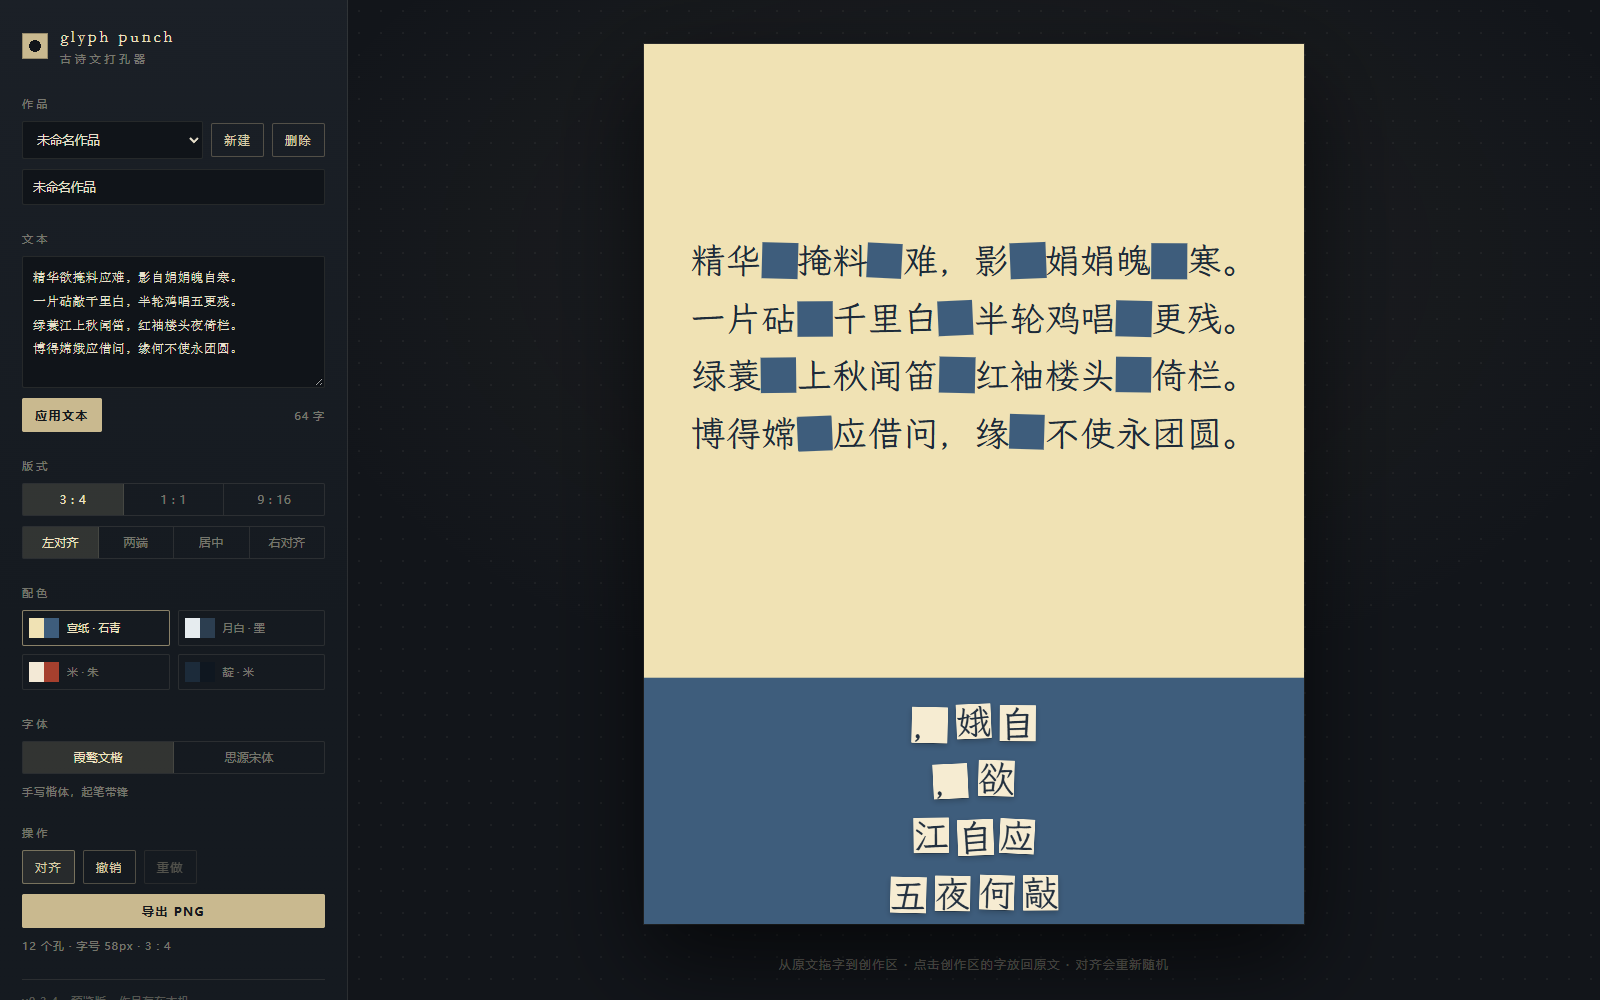
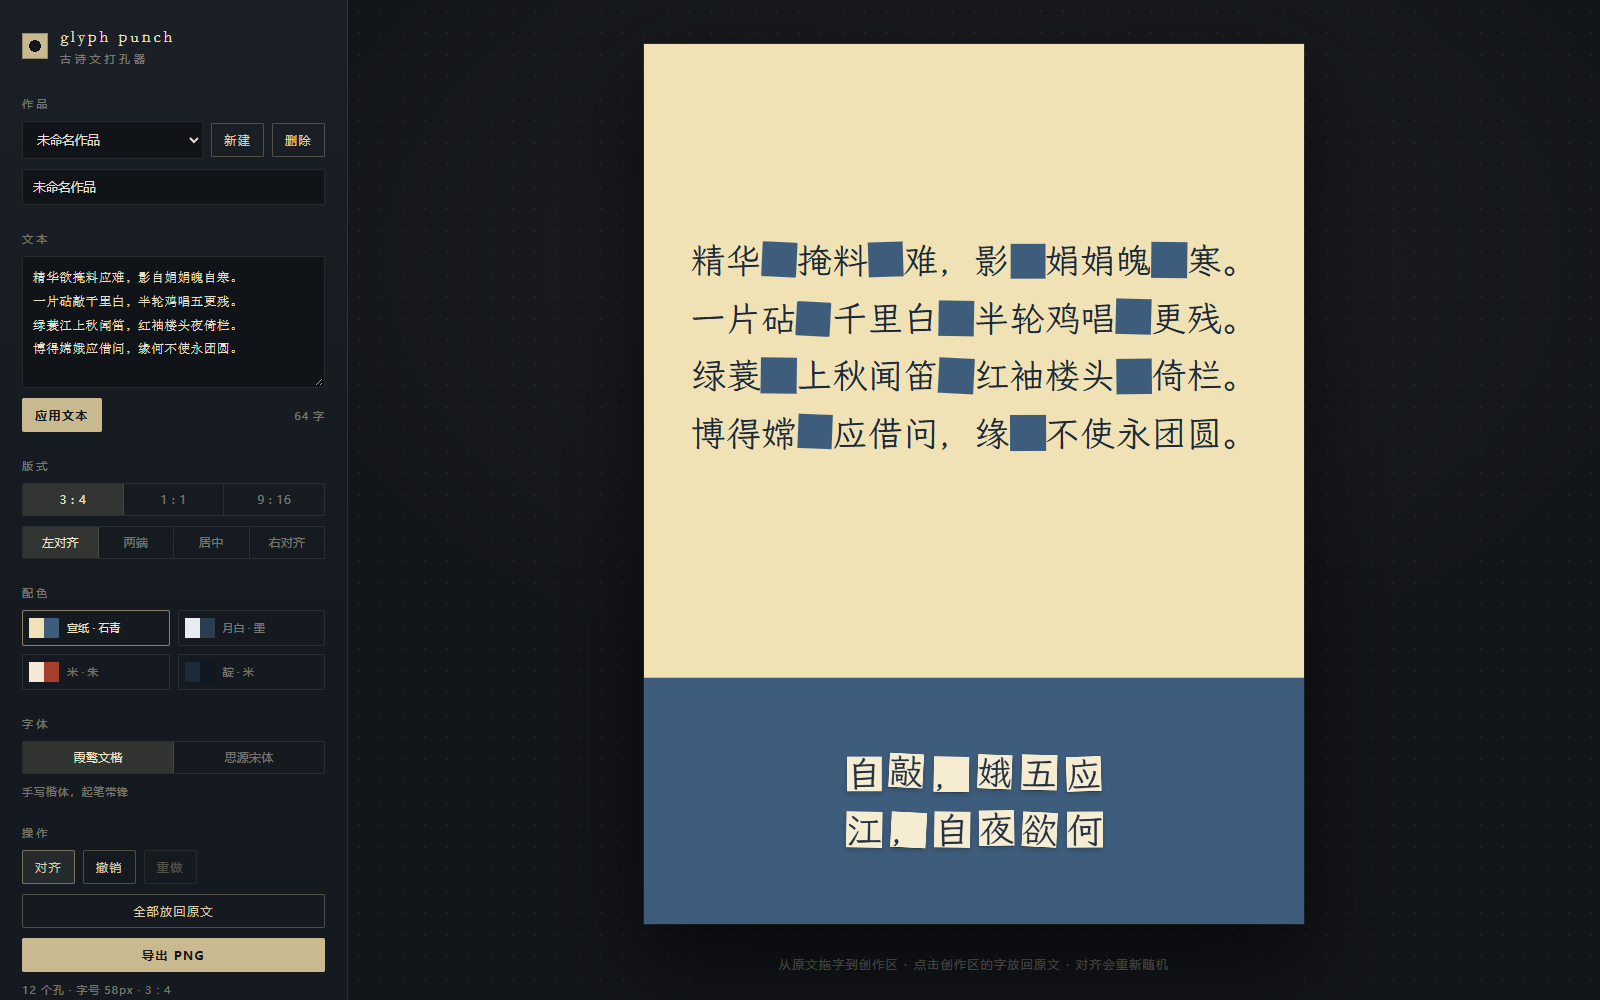
fix: 对齐改为可预测打包，新增全部放回 (v0.3.5)
- 对齐不再依赖散落时不可靠的 y 聚类，统一按阅读顺序打包成行
- 每行最多 10 张、行数均分、行内等距、整体垂直居中
- 新增「全部放回原文」：清空创作区与打孔，可撤销
- 切换作品/应用文本/重置时取消进行中的取字飞行
- 测试覆盖重置与撤销恢复

Changed region(s): [[0.5312, 0.682, 0.6875, 0.93], [0.0, 0.868, 0.2188, 1.0], [0.4688, 0.248, 0.5, 0.279]]

diff --git a/src/layout.ts b/src/layout.ts
@@ -190,11 +190,20 @@ const rand = (min: number, max: number) => min + Math.random() * (max - min)
 
 function packRows(tiles: Work['tiles'], size: number, maxW: number): Work['tiles'][] {
   const gap = size * 0.16
-  const perRow = Math.max(1, Math.floor((maxW + gap) / (size + gap)))
+  const perRow = Math.min(
+    10,
+    Math.max(1, Math.floor((maxW + gap) / (size + gap))),
+  )
   const ordered = [...tiles].sort((a, b) => a.y - b.y || a.x - b.x)
+  const rowCount = Math.max(1, Math.ceil(ordered.length / perRow))
+  const base = Math.floor(ordered.length / rowCount)
+  const extra = ordered.length % rowCount
   const rows: Work['tiles'][] = []
-  for (let i = 0; i < ordered.length; i += perRow) {
-    rows.push(ordered.slice(i, i + perRow))
+  let cursor = 0
+  for (let i = 0; i < rowCount; i++) {
+    const count = base + (i < extra ? 1 : 0)
+    if (count > 0) rows.push(ordered.slice(cursor, cursor + count))
+    cursor += count
   }
   return rows
 }
@@ -208,27 +217,12 @@ export function alignTiles(
 ): Work['tiles'] {
   if (work.tiles.length === 0) return []
 
-  const tolerance = size * 0.9
-  const sorted = [...work.tiles].sort((a, b) => a.y - b.y)
-  const rows: Work['tiles'][] = []
-
-  for (const tile of sorted) {
-    const centerY = tile.y + size / 2
-    const row = rows[rows.length - 1]
-    if (row && Math.abs(row[0].y + size / 2 - centerY) <= tolerance) {
-      row.push(tile)
-    } else {
-      rows.push([tile])
-    }
-  }
-
   const maxW = artW - PAD * 2
   const naturalGap = size * 0.24
 
-  // 平均每行不到两张时，行意图不成立（散落或零星成对），
-  // 按阅读顺序打包成行，否则会排出一列竖向的“行”。
-  const scattered = rows.length > 1 && work.tiles.length / rows.length < 1.8
-  const finalRows = scattered ? packRows(work.tiles, size, maxW) : rows
+  // 自由摆放没有可靠的“行意图”，对齐一律按阅读顺序（y 再 x）
+  // 打包成行，每行最多 10 张，行数均分，结果可预测。
+  const finalRows = packRows(work.tiles, size, maxW)
 
   const out: Work['tiles'] = []
   const rowStep = size * 1.6

diff --git a/src/App.tsx b/src/App.tsx
@@ -86,6 +86,20 @@ export default function App() {
     })
   }
 
+  const cancelIncoming = () => {
+    if (incomingTimer.current !== null) {
+      window.clearTimeout(incomingTimer.current)
+      incomingTimer.current = null
+    }
+    setIncoming(null)
+  }
+
+  const resetAll = () => {
+    if (current.tiles.length === 0 && current.punched.length === 0) return
+    cancelIncoming()
+    commit({ ...current, punched: [], tiles: [] })
+  }
+
   const undo = () => {
     setState((previous) => {
       const restored = previous.past[previous.past.length - 1]
@@ -216,6 +230,7 @@ export default function App() {
   }
 
   const applyText = () => {
+    cancelIncoming()
     commit({ ...current, text: draft, punched: [], tiles: [] })
   }
 
@@ -229,10 +244,12 @@ export default function App() {
   }
 
   const switchWork = (id: string) => {
+    cancelIncoming()
     setState((previous) => ({ ...previous, currentId: id, past: [], future: [] }))
   }
 
   const addWork = () => {
+    cancelIncoming()
     const work = createWork({ title: `作品 ${state.works.length + 1}`, text: '' })
     setState((previous) => ({
       ...previous,
@@ -244,6 +261,7 @@ export default function App() {
   }
 
   const removeWork = () => {
+    cancelIncoming()
     setState((previous) => {
       if (previous.works.length <= 1) {
         const fresh = createWork({ text: '' })
@@ -414,6 +432,14 @@ export default function App() {
               重做
             </button>
           </div>
+          <button
+            className="btn btn-block"
+            type="button"
+            onClick={resetAll}
+            disabled={current.tiles.length === 0}
+          >
+            全部放回原文
+          </button>
           <button className="btn btn-primary btn-block" type="button" onClick={doExport} disabled={busy}>
             {busy ? '导出中…' : '导出 PNG'}
           </button>

diff --git a/docs/PRD.md b/docs/PRD.md
@@ -49,7 +49,7 @@
 | 5 | 文本来源 | 用户粘贴，保留所有换行 |
 | 6 | 视觉 | 双色撞色，预设 + 自定义；背景图后续 |
 | 7 | 创作区 | 自由摆位，「对齐」是显式按钮 |
-| 8 | 对齐语义 | y 聚类成行 → 吸基线 → 行内按 x 均分 → 加随机偏移；平均每行不足两张时改为按阅读顺序打包成行 |
+| 8 | 对齐语义 | 自由摆放没有可靠行意图，对齐一律按阅读顺序（y 再 x）打包成行，每行最多 10 张、行数均分、行内等距，再加随机位移 |
 | 9 | 随机偏移 | 每次对齐重新随机，不持久化种子 |
 | 10 | 画板 | 3:4 / 1:1 / 9:16 预设，坐标按 1080 逻辑宽归一化 |
 | 11 | 原文排版 | 字号自动适配填满区域；默认左对齐，另提供两端对齐/居中/右对齐 |
@@ -116,8 +116,9 @@ interface Tile {
 - 每次取字生成一个新种子，重复取放同一个字会得到不同的角度与偏移；洞与纸片仍然共用这一次的结果。
 - 拖动纸片：自由移动，限制在画板内。
 - 拖进原文区松手：纸片回到它自己的洞。
-- 「对齐」：重新分行、吸基线、均分，附加随机位移与旋转。
+- 「对齐」：按阅读顺序打包成行、行内等距、整体垂直居中，附加随机位移。
 - 撤销 / 重做：所有破坏性操作入栈。
+- 「全部放回原文」：清空创作区、取消全部打孔，所有字回到原位；这是一次可撤销的操作，与「重做」无关。
 - 导出：当前画板 1:1 绘制到 Canvas 后下载。
 
 ## 8. 视觉

diff --git a/README.md b/README.md
@@ -20,7 +20,8 @@
 - 点击创作区的纸片即可弹回原文，也可以拖回原文区回填
 - 动效只回应动作：纸片落下有沉淀回弹、回填时沿直线飞回原洞、对齐与换比例时滑动归位、悬停微抬
 - 尊重 `prefers-reduced-motion`，系统开启减弱动态时全部动效关闭
-- 一键对齐：行识别 → 吸基线 → 行内均分 → 附加随机位移；纸片散落时改为按阅读顺序打包成行
+- 一键对齐：按阅读顺序打包成行（每行最多 10 张、行数均分、行内等距），附加随机位移
+- 「全部放回原文」一键清空创作区，所有字回到原位（可撤销）
 - 画板 3:4 / 1:1 / 9:16，切换时纸片按比例重映射
 - 四套双色主题；四种文本对齐
 - 两套字体包：霞鹜文楷（默认）/ 思源宋体，可随时切换
